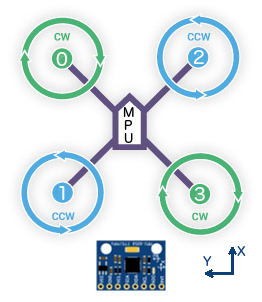
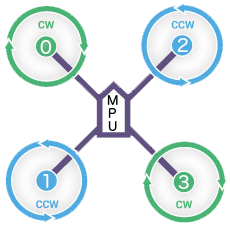
WWW: mpu rotation

diff --git a/root/var/www/esc_pin.php b/root/var/www/esc_pin.php
@@ -1,6 +1,12 @@
 <?php
 $page_id='esc_pin';
 ?>
+
+<style>
+.mpu {
+vertical-align: middle;
+}
+</style>
   <div data-role="page" id="<?php echo $page_id; ?>">
     <div data-role="header">
       <a href="#esc" data-rel="back" data-transition="slide" class="ui-btn ui-corner-all ui-btn-inline">Go Back</a>
@@ -12,6 +18,15 @@ $page_id='esc_pin';
 <p>Motor position is relative to MPU6050/9150 based on the orientation matrix.</p>
 <p>The default orientation matrix (identity matrix) assumes setup as per the diagram.</p>
 <img src="motordir1.png"/>
+<div style="position: relative;">
+<img src="mpu.png" class="mpu"/>
+<img src="axis.png" class="mpu" style="position: absolute; padding: 10px;"/>
+</div>
+</div>
+<div class="ui-grid-a">
+	<div class="ui-block-a"><button class="rotate" value="-90">Counter-clockwise</button></div>
+	<div class="ui-block-b"><button class="rotate" value="+90">Clockwise</button></div>
+</div>
 </div>
 <div class="ui-field-contain">
   <label for="name">Front-left (0) pin:</label>
@@ -30,31 +45,54 @@ $page_id='esc_pin';
   <p>When pitching forwards the pitch quaternion should increase</p>
   <p>When rolling right the roll quaternion should increase</p>
   <p>When yawing right the yaw quaternion should decrease</p>
-  <p>To toggle pitch change the sign of 0,0 (i.e. from 1 to -1)</p>
-  <p>To toggle roll change sign of 1,1 (i.e. from 1 to -1)</p>
+  <p>To toggle pitch change the sign of first column (i.e. from 1 to -1)</p>
+  <p>To toggle roll change sign of second column (i.e. from 1 to -1)</p>
   <p>This is a 3x3 matrix. The top-left item is identified as 0,0. Please refer to MPU6050/6150 driver source code.</p>
 <div class="ui-field-contain">
-  <label for="name">0,0:</label>
-  <input type="number" name="gyro_orient_0" id="gyro_orient_0" value="<?php echo $gyro_orient[0];?>"/>
-  <label for="name">0,1:</label>
-  <input type="number" name="gyro_orient_1" id="gyro_orient_1" value="<?php echo $gyro_orient[1];?>"/>
-  <label for="name">0,2:</label>
-  <input type="number" name="gyro_orient_2" id="gyro_orient_2" value="<?php echo $gyro_orient[2];?>"/>
-  <label for="name">1,0:</label>
-  <input type="number" name="gyro_orient_3" id="gyro_orient_3" value="<?php echo $gyro_orient[3];?>"/>
-  <label for="name">1,1:</label>
-  <input type="number" name="gyro_orient_4" id="gyro_orient_4" value="<?php echo $gyro_orient[4];?>"/>
-  <label for="name">1,2:</label>
-  <input type="number" name="gyro_orient_5" id="gyro_orient_5" value="<?php echo $gyro_orient[5];?>"/>
-  <label for="name">2,0:</label>
-  <input type="number" name="gyro_orient_6" id="gyro_orient_6" value="<?php echo $gyro_orient[6];?>"/>
-  <label for="name">2,1:</label>
-  <input type="number" name="gyro_orient_7" id="gyro_orient_7" value="<?php echo $gyro_orient[7];?>"/>
-  <label for="name">2,2:</label>
-  <input type="number" name="gyro_orient_8" id="gyro_orient_8" value="<?php echo $gyro_orient[8];?>"/>
+	<div class="ui-grid-b">
+		<div class="ui-block-a"><input type="number" class="gyro_orient" name="gyro_orient_0" id="gyro_orient_0" value="<?php echo $gyro_orient[0];?>"/></div>
+		<div class="ui-block-b"><input type="number" class="gyro_orient" name="gyro_orient_1" id="gyro_orient_1" value="<?php echo $gyro_orient[1];?>"/></div>
+		<div class="ui-block-c"><input type="number" class="gyro_orient" name="gyro_orient_2" id="gyro_orient_2" value="<?php echo $gyro_orient[2];?>"/></div>
+
+		<div class="ui-block-a"><input type="number" class="gyro_orient" name="gyro_orient_3" id="gyro_orient_3" value="<?php echo $gyro_orient[3];?>"/></div>
+		<div class="ui-block-b"><input type="number" class="gyro_orient" name="gyro_orient_4" id="gyro_orient_4" value="<?php echo $gyro_orient[4];?>"/></div>
+		<div class="ui-block-c"><input type="number" class="gyro_orient" name="gyro_orient_5" id="gyro_orient_5" value="<?php echo $gyro_orient[5];?>"/></div>
+
+		<div class="ui-block-a"><input type="number" class="gyro_orient" name="gyro_orient_6" id="gyro_orient_6" value="<?php echo $gyro_orient[6];?>"/></div>
+		<div class="ui-block-b"><input type="number" class="gyro_orient" name="gyro_orient_7" id="gyro_orient_7" value="<?php echo $gyro_orient[7];?>"/></div>
+		<div class="ui-block-c"><input type="number" class="gyro_orient" name="gyro_orient_8" id="gyro_orient_8" value="<?php echo $gyro_orient[8];?>"/></div>
+	</div>
 </div>
 </div>
 <input type="submit" value="Save"/>
     </div>
 
   </div>
+<script>
+
+$(".rotate").click(function(event) {
+	event.preventDefault();
+	deg -=parseInt($(this).attr("value"));
+	deg = deg % 360;
+	//$(".mpu").each().css("transform", "rotate("+deg+"deg)");
+	rad=deg*Math.PI / 180;
+	$("#gyro_orient_0").val(Math.round(Math.cos(rad)));
+	$("#gyro_orient_1").val(-Math.round(Math.sin(rad)));
+	$("#gyro_orient_3").val(Math.round(Math.sin(rad)));
+	$("#gyro_orient_4").val(Math.round(Math.cos(rad)));
+	updateImageOrientation();
+});
+$(".gyro_orient").change(function() {
+	updateImageOrientation();
+});
+
+updateImageOrientation = function() {
+	$(".mpu").each(function(){
+		$(this).css("transform", "matrix("+$("#gyro_orient_0").val()+","+$("#gyro_orient_1").val()+","+$("#gyro_orient_3").val()+","+$("#gyro_orient_4").val()+",0,0)");
+	});
+}
+
+updateImageOrientation();
+var deg = Math.atan2($("#gyro_orient_3").val(), $("#gyro_orient_0").val())*180/Math.PI;
+
+</script>
